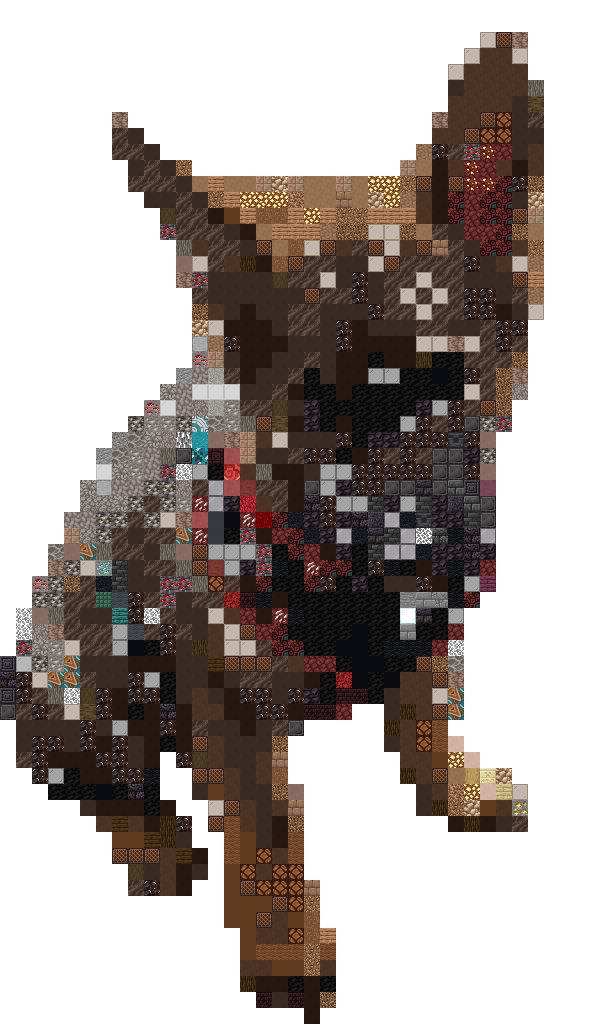
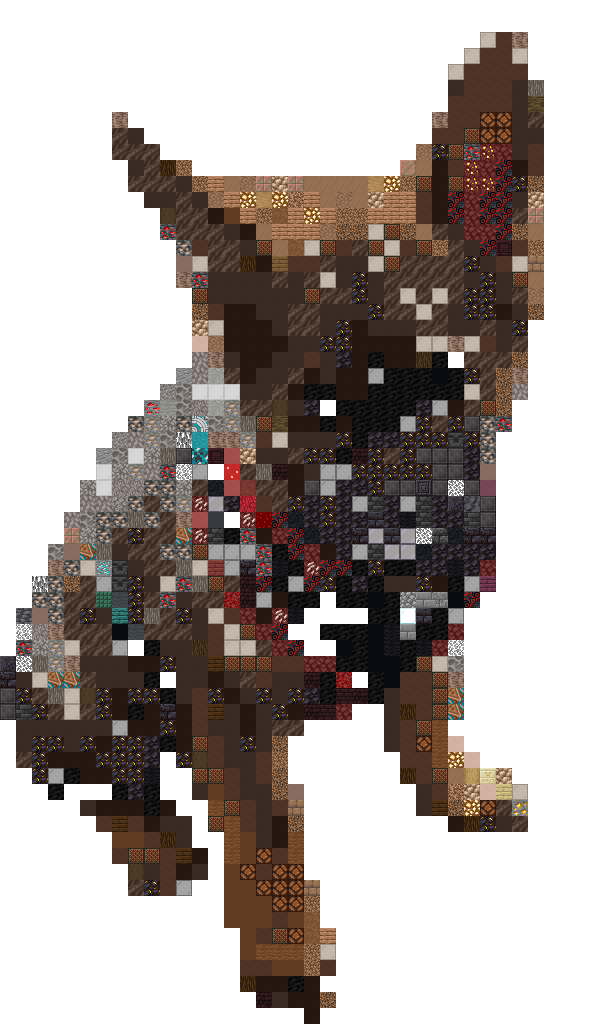
feat: count_blocks + dimensions + options -> config

diff --git a/src/lib.rs b/src/lib.rs
@@ -1,12 +1,13 @@
 mod average;
+mod config;
 
 use average::Blocks;
 use color_space::{CompareCie1976, CompareCie2000, CompareCmc, CompareEuclidean, Rgb};
-use derive_builder::Builder;
-pub use image::imageops::FilterType as DownsamplingMethod;
+pub use config::{ColourSpace, Config, DownsamplingMethod};
 use image::{imageops, DynamicImage, RgbaImage};
 use include_dir::{include_dir, Dir};
 use rayon::prelude::*;
+use std::collections::HashMap;
 use std::io::{Error, ErrorKind, Result};
 use std::ops::{Div, Mul};
 use strum::IntoEnumIterator;
@@ -15,35 +16,13 @@ const BLOCKS: Dir = include_dir!("assets/blocks");
 const ASSET_SIZE: usize = 16;
 pub const BUILD_LIMIT: u16 = 320;
 
-#[derive(Builder)]
-pub struct Options {
-    colour_space: ColourSpace,
-    downsampling: DownsamplingMethod,
-}
-
-impl Default for Options {
-    fn default() -> Self {
-        Self {
-            colour_space: ColourSpace::Cie2000,
-            downsampling: DownsamplingMethod::Nearest,
-        }
-    }
-}
-
-#[derive(Clone)]
-pub enum ColourSpace {
-    Cie2000,
-    Cie1976,
-    Cmc,
-    Euclidean,
-}
-
 pub struct Design {
-    blocks: Vec<Vec<Option<Blocks>>>,
+    blocks: Vec<Vec<Blocks>>,
 }
 
 impl Design {
-    pub fn new(image: &DynamicImage, build_height: u16, options: Option<Options>) -> Result<Self> {
+    /// Creates a new design from an image
+    pub fn new(image: &DynamicImage, build_height: u16, config: Option<Config>) -> Result<Self> {
         // ensure that the build height is not greater than the build limit
         if build_height > BUILD_LIMIT {
             return Err(Error::new(
@@ -53,18 +32,18 @@ impl Design {
         }
 
         // resize the image to the build height
-        let options = options.unwrap_or_default();
+        let config = config.unwrap_or_default();
         let image = image.to_rgba8();
         let image = imageops::resize(
             &image,
             (image.width().mul(build_height as u32) + image.height() - 1).div(image.height()),
             build_height as u32,
-            options.downsampling,
+            config.downsampling,
         );
         let (width, height) = image.dimensions();
 
         // create the output list
-        let mut blocks = vec![vec![None; width as usize]; height as usize];
+        let mut blocks = vec![vec![Blocks::Air; width as usize]; height as usize];
 
         for y in 0..height {
             for x in 0..width {
@@ -82,7 +61,7 @@ impl Design {
                     .par_bridge()
                     .map(|block| {
                         let avg: Rgb = block.clone().into();
-                        let difference = match options.colour_space {
+                        let difference = match config.colour_space {
                             ColourSpace::Cie2000 => avg.compare_cie2000(&colour),
                             ColourSpace::Cie1976 => avg.compare_cie1976(&colour),
                             ColourSpace::Cmc => avg.compare_cmc(&colour),
@@ -95,13 +74,14 @@ impl Design {
                     .unwrap()
                     .0;
 
-                blocks[y as usize][x as usize] = Some(block);
+                blocks[y as usize][x as usize] = block;
             }
         }
 
         Ok(Self { blocks })
     }
 
+    /// Draws the design as an image
     pub fn draw_image(&self) -> Result<RgbaImage> {
         let mut output = RgbaImage::new(
             (self.blocks[0].len() * ASSET_SIZE) as u32,
@@ -109,9 +89,10 @@ impl Design {
         );
 
         for (y, row) in self.blocks.iter().enumerate() {
-            for (x, col) in row.iter().enumerate() {
-                if let Some(path) = col {
-                    let asset = BLOCKS.get_file(path);
+            for (x, block) in row.iter().enumerate() {
+                if let Blocks::Air = block {
+                } else {
+                    let asset = BLOCKS.get_file(block);
 
                     if let Some(asset) = asset {
                         let asset = image::load_from_memory(asset.contents())
@@ -125,5 +106,23 @@ impl Design {
         }
 
         Ok(output)
+    }
+
+    /// Returns the dimensions of the design
+    pub fn dimensions(&self) -> (usize, usize) {
+        (self.blocks[0].len(), self.blocks.len())
+    }
+
+    /// Returns a hashmap of the blocks and their counts
+    pub fn count_blocks(&self) -> HashMap<Blocks, usize> {
+        let mut resources = HashMap::new();
+
+        for row in &self.blocks {
+            for block in row {
+                *resources.entry(block.clone()).or_insert(0) += 1;
+            }
+        }
+
+        resources
     }
 }

diff --git a/build.rs b/build.rs
@@ -6,18 +6,21 @@ use std::io::{Result, Write};
 fn main() -> Result<()> {
     // create average.rs, a file which contains a phf::Map of the average colours of each block
     let mut enum_ = String::from(
-        "#[derive(Clone, EnumIter)]
-pub enum Blocks {",
+        "#[derive(Debug, Clone, PartialEq, Eq, Hash, EnumIter)]
+pub enum Blocks {
+    Air,",
     );
     let mut into_rgb = String::from(
         "impl Into<Rgb> for Blocks {
     fn into(self) -> Rgb {
-        match self {",
+        match self {
+            Blocks::Air => Rgb::new(0., 0., 0.),",
     );
     let mut asref_path = String::from(
         "impl AsRef<Path> for Blocks {
     fn as_ref(&self) -> &Path {
-        match self {",
+        match self {
+            Blocks::Air => Path::new(\"air.png\"),",
     );
 
     for file in fs::read_dir("./assets/blocks")? {

diff --git a/src/config.rs b/src/config.rs
@@ -1,0 +1,25 @@
+use derive_builder::Builder;
+pub use image::imageops::FilterType as DownsamplingMethod;
+
+#[derive(Builder)]
+pub struct Config {
+    pub colour_space: ColourSpace,
+    pub downsampling: DownsamplingMethod,
+}
+
+impl Default for Config {
+    fn default() -> Self {
+        Self {
+            colour_space: ColourSpace::Cie2000,
+            downsampling: DownsamplingMethod::Nearest,
+        }
+    }
+}
+
+#[derive(Clone)]
+pub enum ColourSpace {
+    Cie2000,
+    Cie1976,
+    Cmc,
+    Euclidean,
+}

diff --git a/readme.md b/readme.md
@@ -16,10 +16,11 @@ make minecraft pixel art designs from an image.
 	</tr>
 </table>
 
-### Upcoming features
+### Todo
 
 - Schematic generation
-- Output to different image formats
-- Make list of resources and generate images to represent that
+- Generate graphical resource list
 - WASM support
 - Potentially make it look better on lower resolutions?
+- Look into [PixelStacker](https://github.com/Pangamma/PixelStacker) - could I implement similar functionality because the results are GORGEOUS!
+- proc macro to replace the build script and generate the enums/impls from info in a json document
